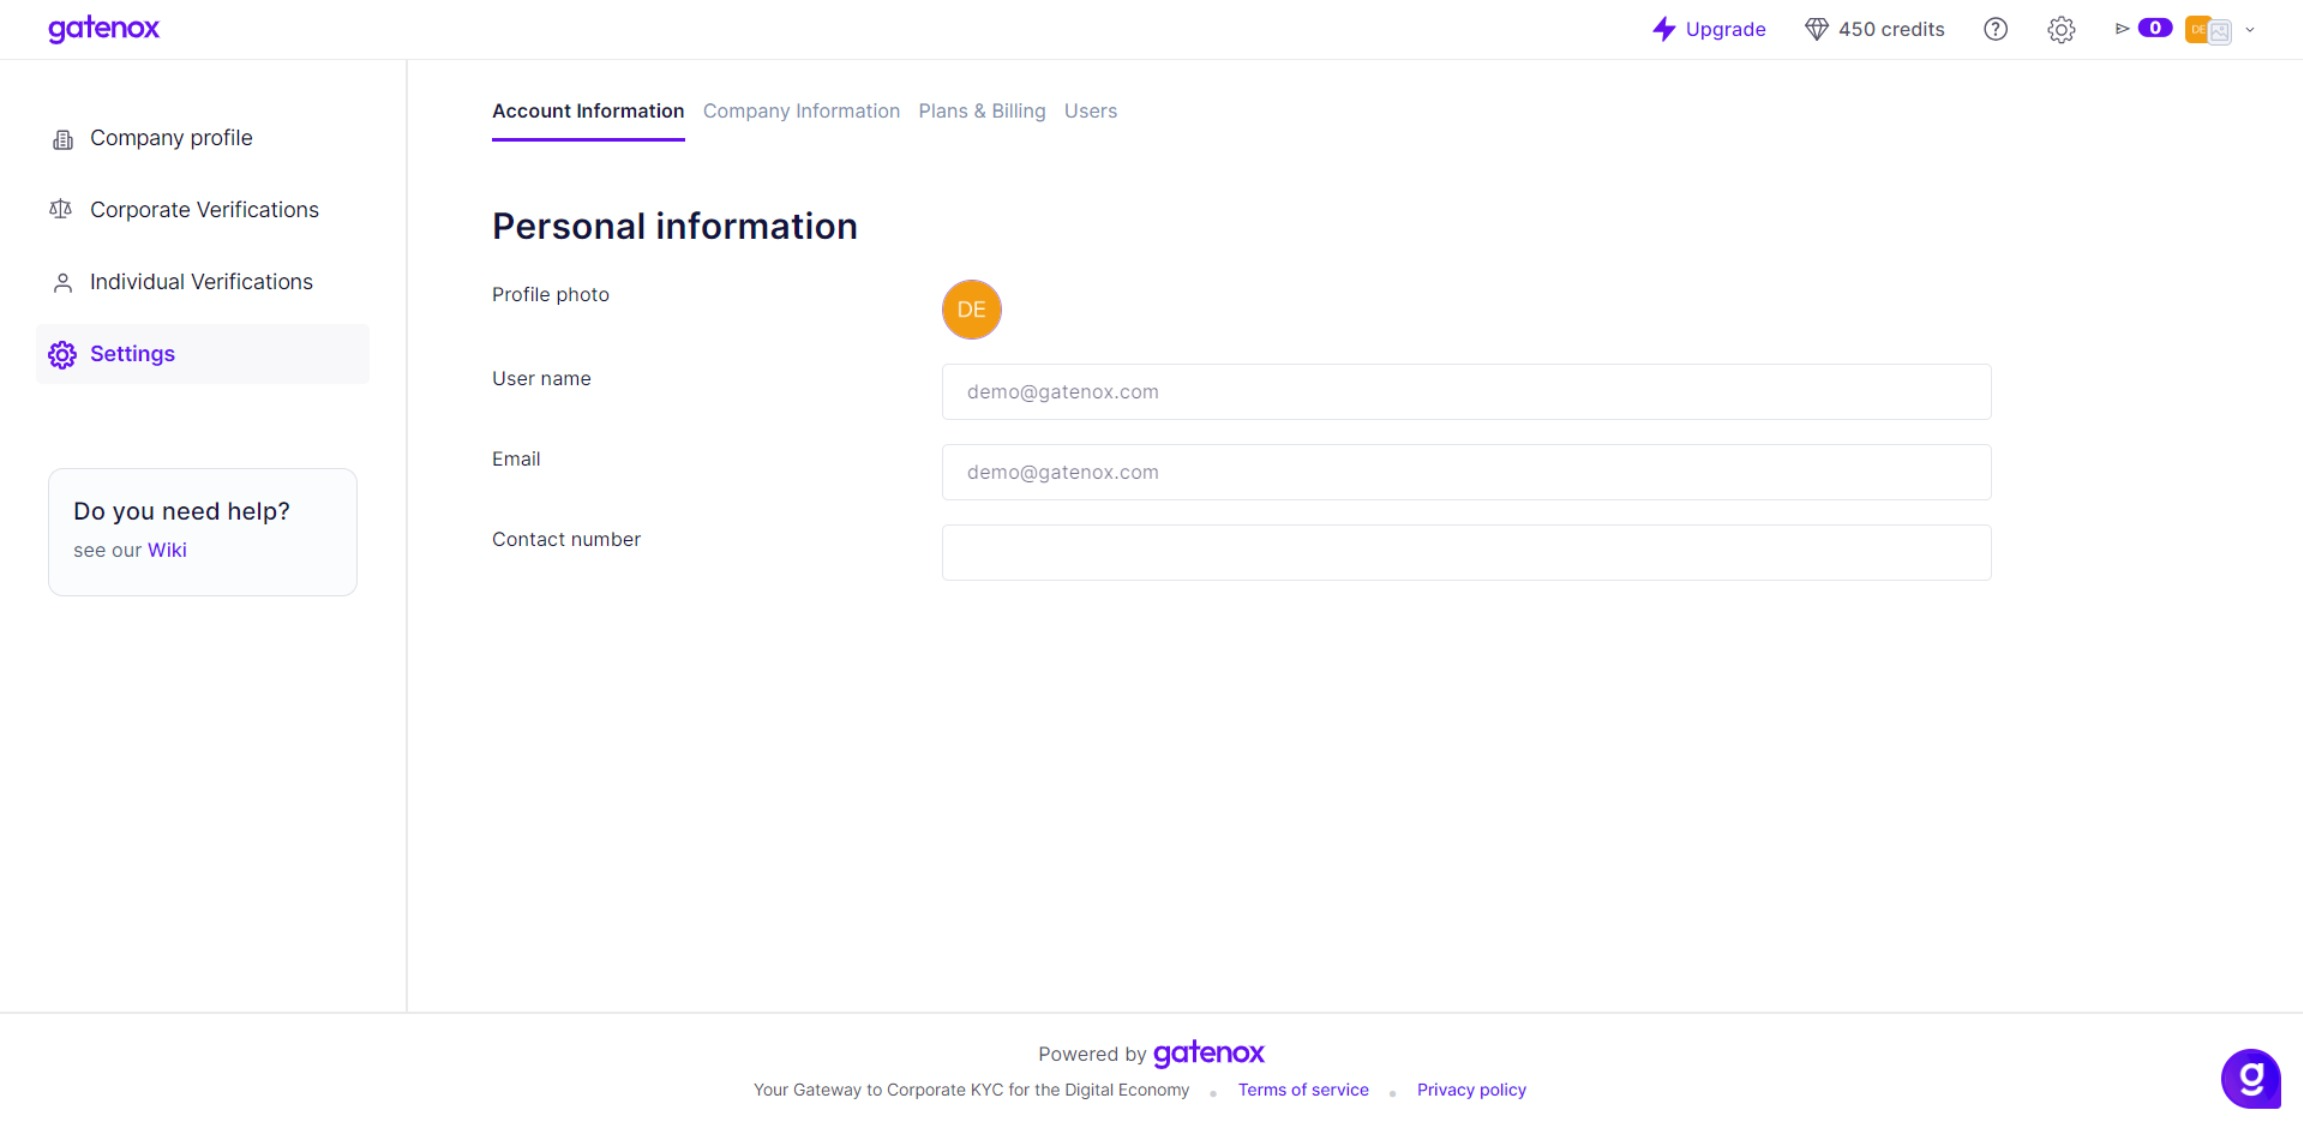
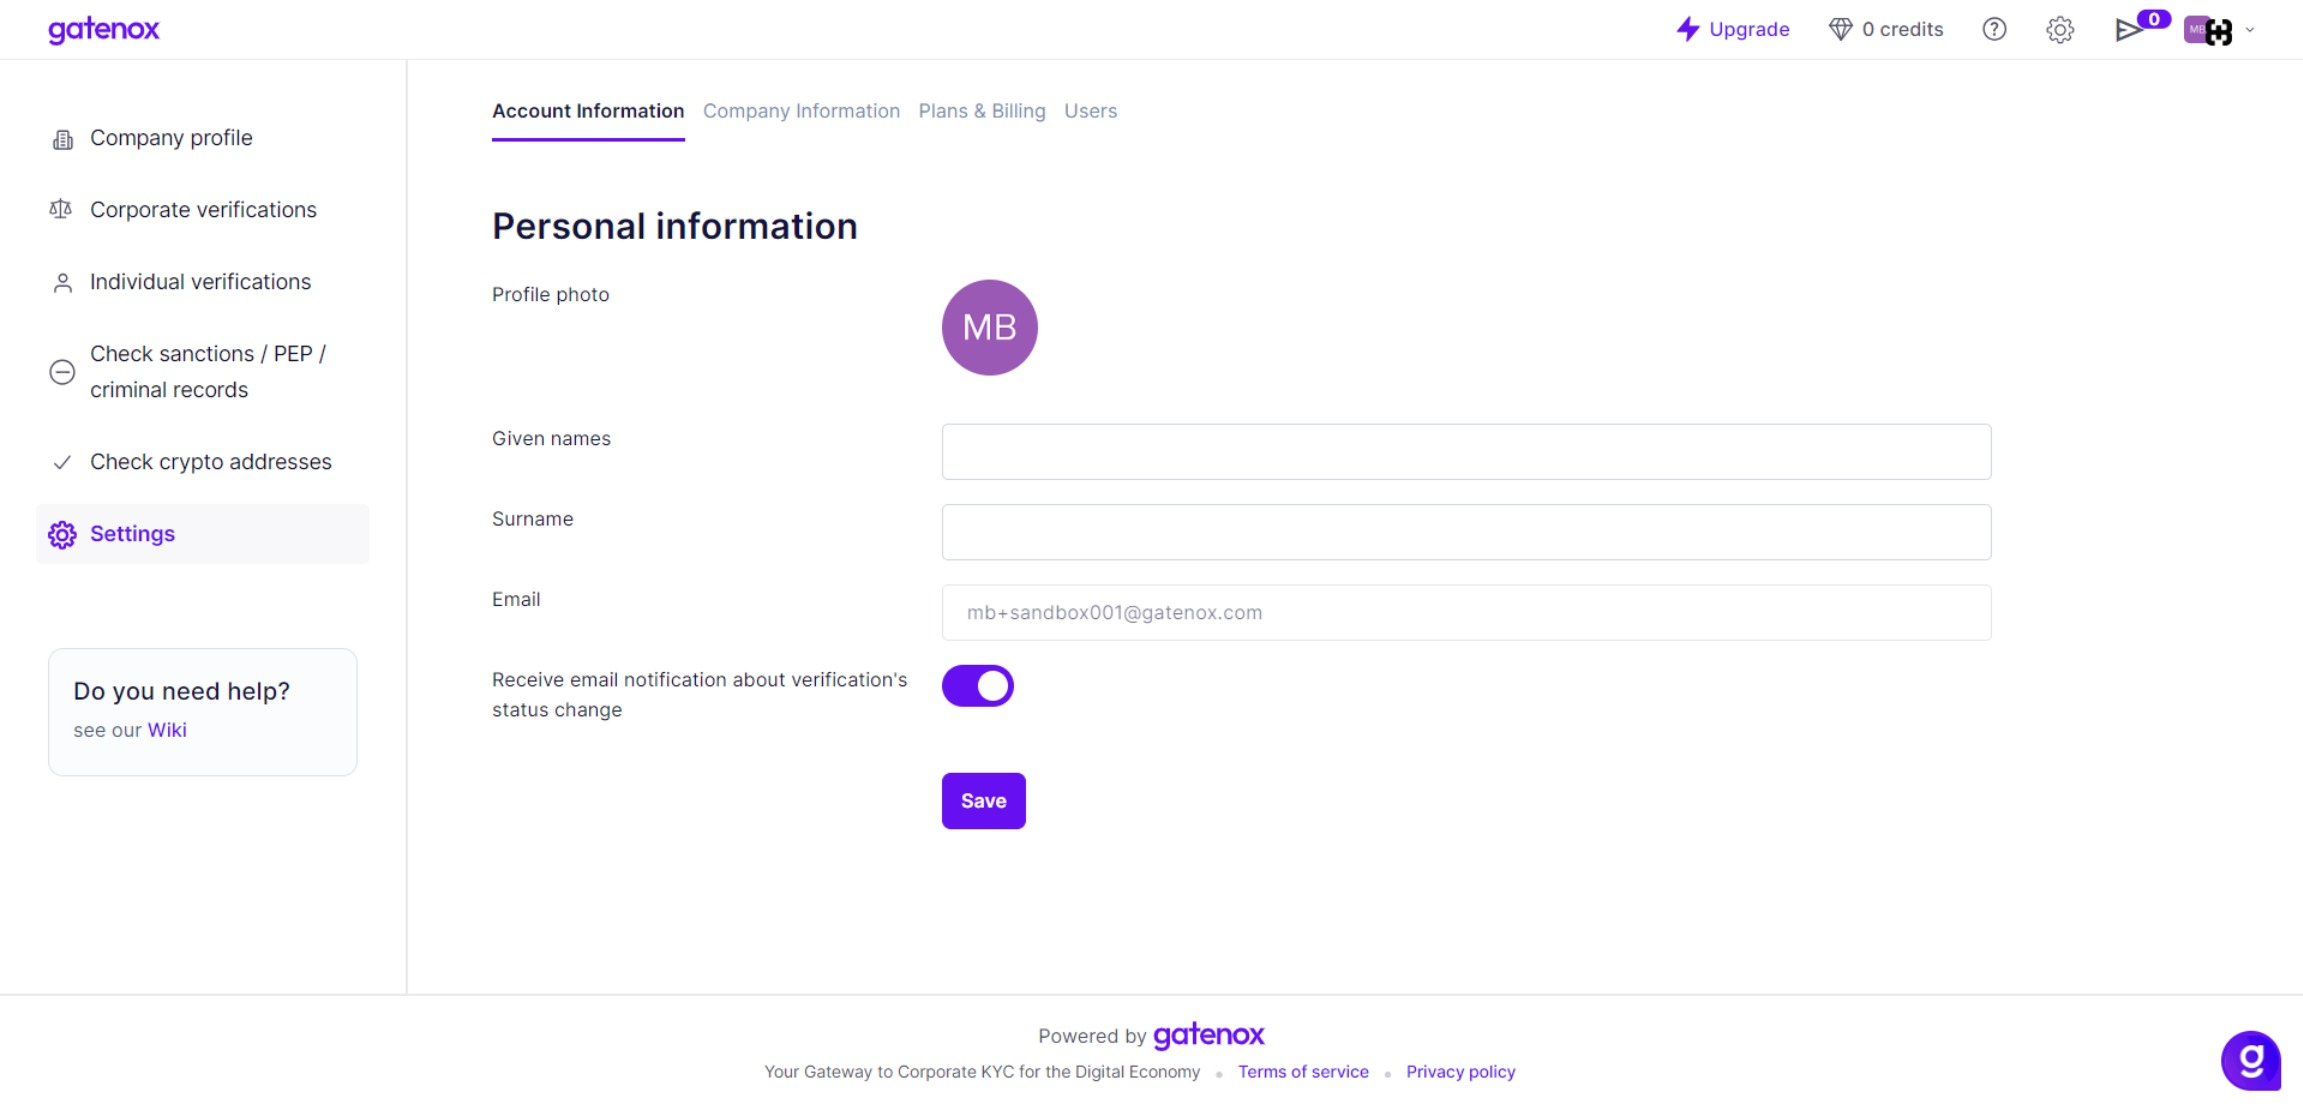
GITBOOK-168: Mariusz's Apr 8 changes

diff --git a/compliance-cloud-how-to/comprehensive-screening/check-crypto-addresses.md b/compliance-cloud-how-to/comprehensive-screening/check-crypto-addresses.md
@@ -11,12 +11,12 @@ The "Check Crypto Addresses" feature is a security and compliance tool that allo
 
 We are analyzing blockchain addresses to detect potential exposure to illicit activities like fraud, money laundering, or connections with sanctioned entities.
 
-<figure><img src="../../.gitbook/assets/CheckCryptoAddress_list.png" alt=""><figcaption><p>Check crypto addresses - list view</p></figcaption></figure>
+<figure><img src="../../.gitbook/assets/Check crypto addresses list.png" alt=""><figcaption><p>Check crypto addresses - list view</p></figcaption></figure>
 
 {% hint style="warning" %}
 **Understanding the results**
 
-* The results will present an overview of the risk associated with the address, categorizing it into different levels such as Low, Medium, or High.
+* The results will present an overview of the risk associated with the address, categorizing it into different levels such as Low (0 - 32), Medium (33 - 65), or High (66 - 100).
 {% endhint %}
 
 ### Request for crypto address report
@@ -24,16 +24,30 @@ We are analyzing blockchain addresses to detect potential exposure to illicit ac
 To request for crypto address report:
 
 1. Click the "Check the new crypto address" button.
-2. Provide a blockchain and enter crypto addresses.
-3. For some crypto addresses the existence on the blockchain of the crypto address will be checked.
-4. Press the "Check" button" to start the analysis.
+2. Select a provider and choose a suitable operation, if available.
 
-<figure><img src="../../.gitbook/assets/CheckCryptoAddress_request.png" alt=""><figcaption><p>Check crypto addresses - request for verification</p></figcaption></figure>
+{% hint style="info" %}
+Find out more about different provides under the following links:
+
+AMLBot: [https://amlbot.com/#faq](https://amlbot.com/#faq)
+
+Coinfirm: [https://coinfirm.zendesk.com/hc/en-us](https://coinfirm.zendesk.com/hc/en-us)
+{% endhint %}
+
+3. Provide a blockchain and enter crypto addresses and other necessary information. The range of parameters may vary depending on the chosen scenario.&#x20;
+4. For some crypto addresses the existence on the blockchain of the crypto address will be checked.
+5. Press the "Check" button" to start the analysis.
+
+<figure><img src="../../.gitbook/assets/Check crypto addresses request coinfirm.png" alt=""><figcaption><p>Check crypto addresses - request for verification - Coinfirm</p></figcaption></figure>
+
+<figure><img src="../../.gitbook/assets/Check crypto addresses request amlbot.png" alt=""><figcaption><p>Check crypto addresses - request for verification - AMLBot</p></figcaption></figure>
 
 {% hint style="danger" %}
 You will be redirected back to the crypto address report list. All the filters will be clear and you can find your newly requested report at the top.
 {% endhint %}
 
-After the report generation is finished, the information about the risk score associated with the crypto address will be displayed. Click on the item on the list to display the report. You can download the report using link in the top right corner of the modal.
+After the report generation is finished, the information about the risk score associated with the crypto address will be displayed. Click on the item on the list to display the report. You can download the report using the link in the top right corner of the modal.
 
-<figure><img src="../../.gitbook/assets/CheckCryptoAddress_report.png" alt=""><figcaption><p>Check crypto addresses - report</p></figcaption></figure>
+<figure><img src="../../.gitbook/assets/CheckCryptoAddress_report.png" alt=""><figcaption><p>Check crypto addresses - report from Coinfirm</p></figcaption></figure>
+
+<figure><img src="../../.gitbook/assets/Check crypto addresses - report amlbot.png" alt=""><figcaption><p>Check crypto addresses - report from AMLBot</p></figcaption></figure>

diff --git a/gatenox-guide/whats-new.md b/gatenox-guide/whats-new.md
@@ -10,6 +10,18 @@ description: >-
 If you are looking for a list of changes in our API please check [api-versions-history.md](../gatenox-api/api-reference/api-versions-history.md "mention")
 {% endhint %}
 
+### 2024-04-10
+
+1. Integrate new crypto address report provider - AMLBot ( [#check-crypto-addresses](../compliance-cloud-how-to/comprehensive-screening/#check-crypto-addresses "mention") )
+2. Show the brand name in the profile subtitle ( [manage-company-details](../id-node-how-to/create-and-complete-company-profile/manage-company-details/ "mention") )
+3. Order context list alphabetically ( [multiple-company-profiles.md](../compliance-cloud-how-to/multiple-company-profiles.md "mention") )
+4. Allow to turn on / off email notifications about case status changes ( [account-information.md](../general-settings/account-information.md "mention") ).
+
+Bug fixes:
+
+1. "Add assessment" was not displayed upon opening the case for the first time.
+2. The ToDo list did not display "at\_least" rules (for example "Provide at least one director").
+
 ### 2024-03-25
 
 1. Allow the Compliance Officer to mark the sanctions / PEP / criminal records as relevant/irrelevant. [identified-issues.md](../compliance-cloud-how-to/risk-assessment/identified-issues.md "mention")

diff --git a/compliance-cloud-how-to/start-onboarding-customers-with-gatenox/README.md b/compliance-cloud-how-to/start-onboarding-customers-with-gatenox/README.md
@@ -9,6 +9,6 @@ There are a few simple steps to start verification of your customers using Gaten
 5. Send an invitation to review for individuals: [send-invitation-for-review-1.md](send-invitation-for-review-1.md "mention").
 6. Add the "Apply via Gatenox" button or link to your portal/webpage [apply-via-gatenox.md](apply-via-gatenox.md "mention").
 
-Alternatively, Gatenox Hub serves as an initial tool for screening against sanctions, PEP (Politically Exposed Persons), and criminal records. Additionally, we provide blockchain analytics to facilitate requests for crypto address verification reports, enabling a comprehensive assessment of associated risks. These features are offered via Gatenox API
+Alternatively, Gatenox Hub serves as an initial tool for screening against sanctions, PEP (Politically Exposed Persons), and criminal records. Additionally, we provide blockchain analytics to facilitate requests for crypto address verification reports, enabling a comprehensive assessment of associated risks. These features are offered via Gatenox API.
 
 Find out more about how to use Gatenox Hub as a screening tool here: [comprehensive-screening.md](../../gatenox-api/api-reference/comprehensive-screening.md "mention").&#x20;

diff --git a/general-settings/account-information.md b/general-settings/account-information.md
@@ -1,5 +1,16 @@
 # Account information
 
-In this section, you can see your individual account details.&#x20;
+This section provides access to your individual account information.
+
+If your account was not set up using Google Login, you have the opportunity to enter your first name and last name.&#x20;
+
+In this tab, you have the option to enable or disable email notifications for case status updates. You can receive notifications in the following cases:
+
+1. As a compliance team, you will receive notification upon new case arrival.
+2. As a business user, you will receive notification when:
+   1. The compliance team will ask for a data update.
+   2. The compliance team will finish the assessment.
+
+
 
 <figure><img src="../.gitbook/assets/SettingsAccountInformation.png" alt="Settings - account information"><figcaption><p>Settings - account information</p></figcaption></figure>

diff --git a/compliance-cloud-how-to/multiple-company-profiles.md b/compliance-cloud-how-to/multiple-company-profiles.md
@@ -1,0 +1,9 @@
+# Multiple company profiles
+
+#### Managing Multiple Company Profiles in Gatenox Hub
+
+The Gatenox Hub offers a seamless way to manage different scopes of data by allowing users to link multiple company profiles to a single personal account. These profiles are neatly organized in alphabetical order for easy navigation, with the currently active profile prominently displayed at the top.
+
+To switch between your company profiles, simply access the menu in the upper right corner of the Gatenox Hub interface. This feature ensures a streamlined workflow, enabling you to efficiently manage and gather data across your various business engagements.
+
+<figure><img src="../.gitbook/assets/Company profile - switch profiles.png" alt=""><figcaption><p>Swiching between company profiles</p></figcaption></figure>

diff --git a/SUMMARY.md b/SUMMARY.md
@@ -63,6 +63,7 @@
   * [Send the invitation for Individual KYC](compliance-cloud-how-to/start-onboarding-customers-with-gatenox/send-invitation-for-review-1.md)
   * [Apply via Gatenox](compliance-cloud-how-to/start-onboarding-customers-with-gatenox/apply-via-gatenox.md)
   * [Integration options with Gatenox HUB](compliance-cloud-how-to/start-onboarding-customers-with-gatenox/integration-options-with-gatenox-hub.md)
+* [Multiple company profiles](compliance-cloud-how-to/multiple-company-profiles.md)
 * [Cases management](compliance-cloud-how-to/cases-management/README.md)
   * [Corporate verifications](compliance-cloud-how-to/cases-management/corporate-verifications.md)
   * [Individual verifications](compliance-cloud-how-to/cases-management/individual-verifications.md)

diff --git a/id-node-how-to/create-and-complete-company-profile/manage-company-details/README.md b/id-node-how-to/create-and-complete-company-profile/manage-company-details/README.md
@@ -2,4 +2,6 @@
 
 You can edit your company details by clicking on the "Edit" button in the "Company details" section of the "Your company profile" screen.
 
+You can find your company logo, name and brand name in the top center of the dashboard. The main section of the dashboard displays the most important data from your company profile.&#x20;
+
 <figure><img src="../../../.gitbook/assets/DashboardClear (2).png" alt="Your company profile - edit company details"><figcaption><p>Your company profile - edit company details</p></figcaption></figure>
